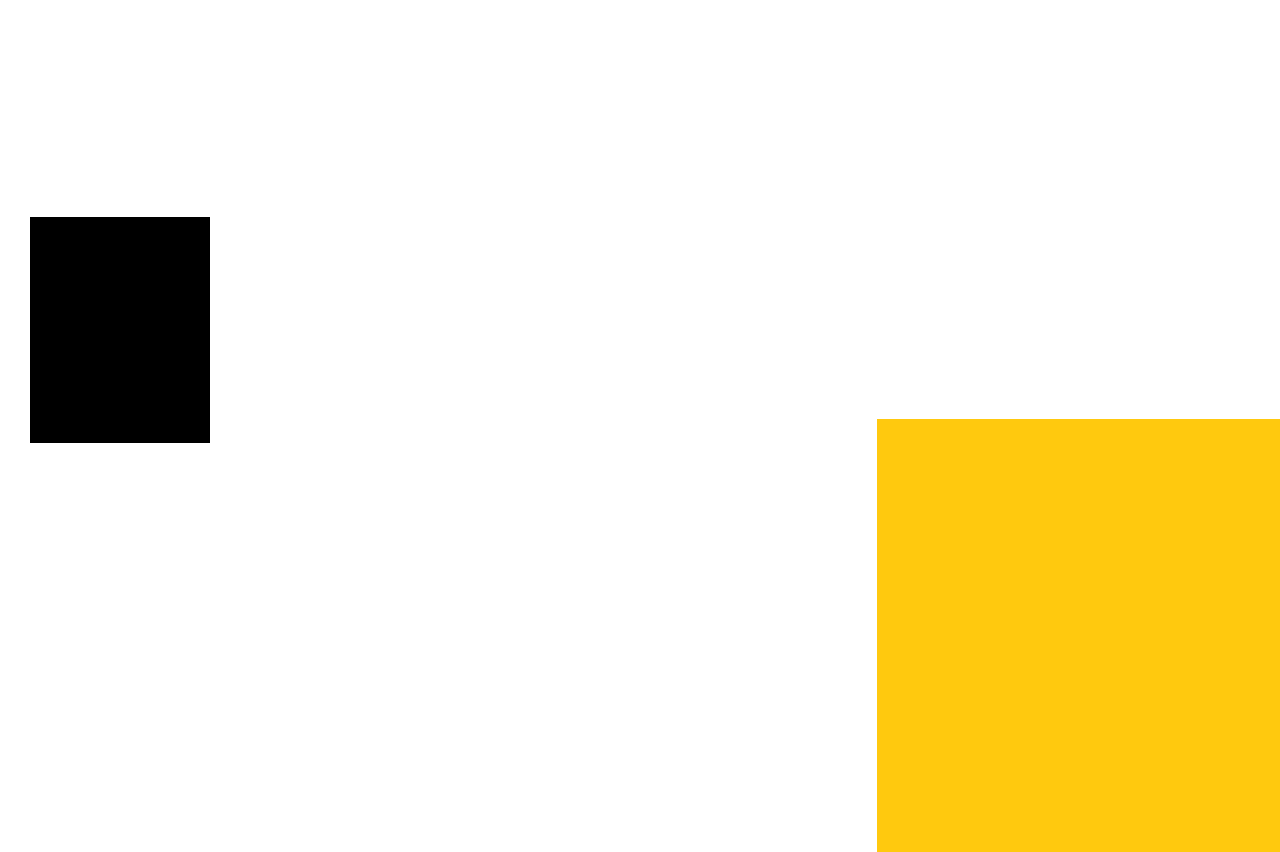
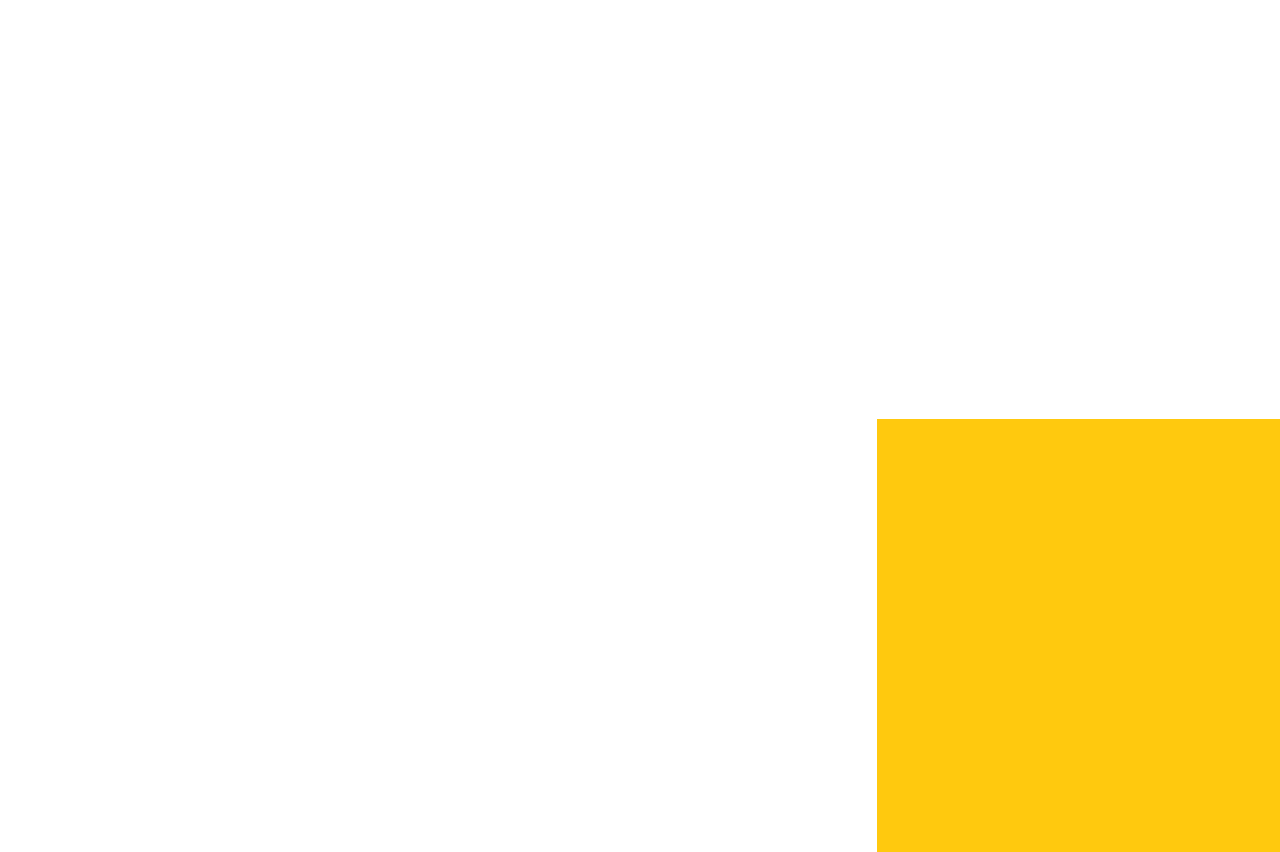
new design

Changed region(s): [[0.0, 0.2441, 0.1875, 0.5188]]

diff --git a/css/style.css b/css/style.css
@@ -230,13 +230,13 @@ img {
     color: var(--dark-color);
     font-family: var(--accent-font);
     font-weight: 600;
-    font-size: var(--h2-font-size);
+    font-size: 2rem;
 }
 
 .nav__toggle {
     color: var(--yellow-color);
     font-weight: 600;
-    font-size: var(--h2-font-size);
+    font-size: 2.5rem;
     cursor: pointer;
 }
 
@@ -321,14 +321,26 @@ img {
 .about__img {
     display: flex;
     justify-content: center;
+    position: relative;
     width: 110px;
     height: 120px;
     border-radius: 50%;
-    overflow: hidden;
+}
+
+.about__img::before {
+    position: absolute;
+    content: '';
+    right: -20px;
+    top: 15px;
+    border: 6px solid var(--yellow-color);
+    opacity: .8;
+    width: 100%;
+    height: 100%;
 }
 
 .about__img img {
-    width: 110px;
+    max-width: 100%;
+    z-index: 1;
 }
 
 .about__subtitle {
@@ -391,25 +403,23 @@ img {
 .skills__img {
     flex: 1;
     position: relative;
-    z-index: 0;
     width: 80%;
     margin: 0 auto;
 }
 
-.skills__img img {
-    border-radius: .5rem;
-}
-
 .skills__img::before {
-    content: '';
     position: absolute;
-    top: 0;
-    left: 0;
+    content: '';
+    right: -30px;
+    top: 30px;
+    border: 10px solid var(--yellow-color);
+    opacity: .8;
     width: 100%;
     height: 100%;
-    background-image: linear-gradient(to right, var(--dark-color), var(--white-color));
-    z-index: 1;
-    opacity: 0.5;
+}
+
+.skills__img img {
+    border-radius: .5rem;
 }
 
 /* -------------------- PORTFOLIO --------------------------*/
@@ -660,6 +670,10 @@ img {
         right: 10%;
     }
 
+    .about .section-title {
+        margin-bottom: 0;
+    }
+
     .about__container {
         grid-template-columns: repeat(2, 1fr);
         align-items: center;
@@ -667,9 +681,24 @@ img {
         padding: 1rem 0 4rem 0;
     }
 
+    .about__subtitle {
+        margin-top: 4rem;
+    }
+
     .about__img {
         width: 200px;
         height: 200px;
+    }
+
+    .about__img::before {
+        position: absolute;
+        content: '';
+        right: -30px;
+        top: 15px;
+        border: 10px solid var(--yellow-color);
+        opacity: .8;
+        width: 105%;
+        height: 125%;
     }
     
     .about__img img {

diff --git a/index.html b/index.html
@@ -55,7 +55,7 @@
                     <div class="home__scroll">
                         <a href="#about" class="home__scroll-link">
                             <i class='bx bx-up-arrow-alt'></i>
-                            Explorez mon univers
+                            Scroll down
                         </a>
                     </div>
             </section>
@@ -147,8 +147,8 @@
 
                             <div class="portfolio__link">
                                 <tag>2020</tag>
-                                <p>Site personnel, adaptation d'un design de StyleShout et codé en React</p>
-                                <span>#React, #React-Dom, #JQuery, #Framer-Motion, #CSS, #Animations</span>
+                                <p>Design d'une landing page d'un site de news de jeux-vidéo pour m'entrainer avec CSS Grid</p>
+                                <span>#HTML, #CSS, #JavaScript, #CSS Grid</span>
                                 <a href="https://julie-dev.netlify.app/" target="_blank" class="portfolio__link-name"><i class='bx bx-link-external'></i></a>
                             </div>
                         </div>
@@ -183,7 +183,7 @@
 
                             <div class="portfolio__link">
                                 <tag>2020</tag>
-                                <p>Mon premier portfolio, codé en side-project pendant ma formation et le début de mon amour pour les animations</p>
+                                <p>Mon premier portfolio, codé en side-project pendant ma formation et au design inspiré de la synthwave / retrowave</p>
                                 <span>#HTML, #CSS, #JavaScript, #JQuery, #Responsive, #Animations</span>
                                 <div>
                                     <a href="https://github.com/julie-p/portfolio" target="_blank" class="portfolio__link-name"><i class='bx bxl-github'></i></a>

diff --git a/js/script.js b/js/script.js
@@ -51,7 +51,7 @@ const sr = ScrollReveal({
     reset: true
 })
 
-/* Scroll Home */
+/* /* Scroll Home */
 sr.reveal('.home__title', {})
 sr.reveal('.home__scroll', {delay: 200})
 sr.reveal('.home__img', {origin:'right', delay: 400})
@@ -76,3 +76,4 @@ sr.reveal('.portfolio__img', {interval: 200})
 sr.reveal('.contact__subtitle', {})
 sr.reveal('.contact__text', {interval: 200})
 sr.reveal('.contact__button', {delay: 600})
+ */
